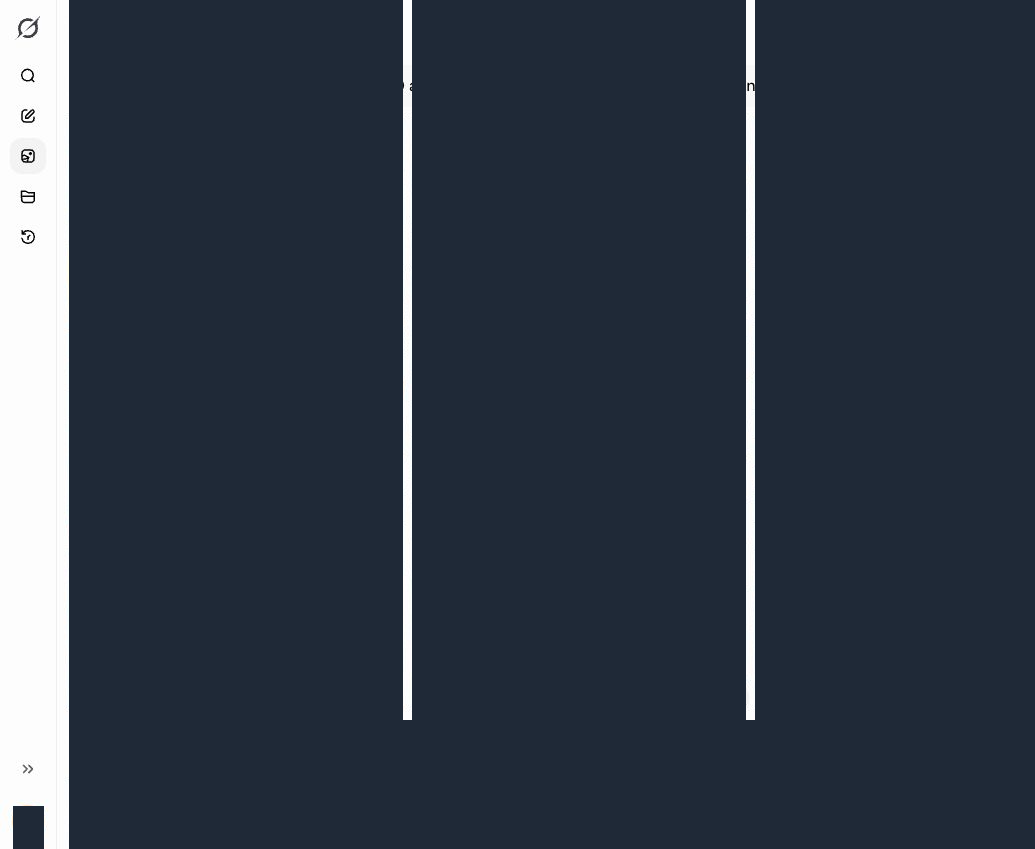
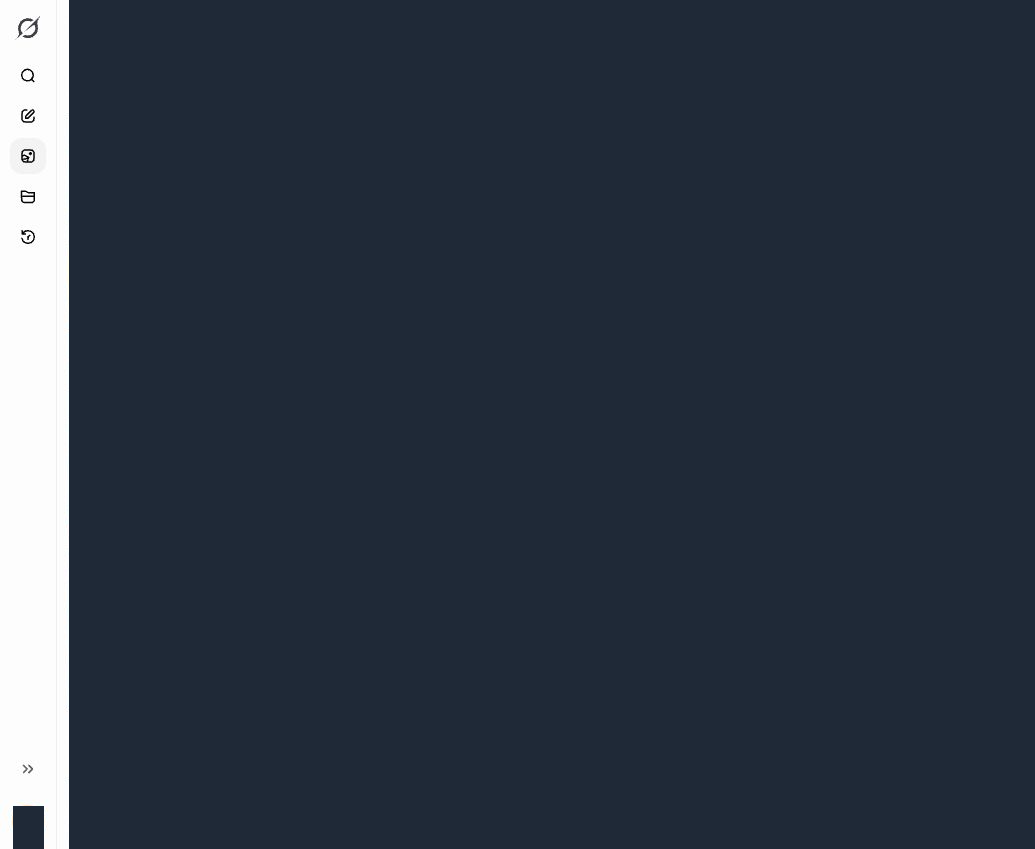
docs: record R2 access evidence

Changed region(s): [[0.7111, 0.0, 0.742, 0.8575], [0.371, 0.0, 0.4019, 0.8575]]

diff --git a/docs/audits/2026-05-20-grok-powertools-full-system-audit/implementation-notes.html b/docs/audits/2026-05-20-grok-powertools-full-system-audit/implementation-notes.html
@@ -46,6 +46,8 @@
         <li><strong>Prompt JSON scope:</strong> Task 4's prompt-root JSON inventory excludes files inside <code>node_modules</code> so dependency metadata does not drown out user/export prompt evidence. This matches the approved Task 4 script and is recorded in <code>inventory/prompt-json-summary.json</code>.</li>
         <li><strong>Privacy-safe Grok evidence:</strong> Task 5 treats Grok page titles, prompts, tab titles, media thumbnails, and generated content as sensitive. The saved-start screenshot is redacted before being saved, and the log records selector/status facts instead of prompt text.</li>
         <li><strong>Popup source preview:</strong> Because live <code>chrome-extension://</code> popup navigation is blocked by Chrome automation policy, Task 5 uses a static <code>popup.html</code> screenshot only to document the Cloud Backup UI shape. It is not interpreted as live storage/config evidence.</li>
+        <li><strong>R2 log sanitization:</strong> Task 6 preserves Cloudflare account IDs and exact Wrangler error codes, but redacts local email and account display-name text because those details are not needed to diagnose the R2 blocker.</li>
+        <li><strong>Credential metadata redaction:</strong> After evidence review, <code>inventory/prompt-json-summary.json</code> redacts credential-like filenames/paths and credential-key field names while preserving file counts, parseability, byte sizes, and non-sensitive inventory shape.</li>
       </ul>
     </section>
 
@@ -54,6 +56,7 @@
       <ul>
         <li><strong>Live extension popup not inspected:</strong> The original Task 5 plan called for live popup cloud settings. Browser automation blocked <code>chrome-extension://.../popup.html</code>, so the audit recorded the blocker and used source preview for UI shape only. This avoids reading Chrome profile internals or routing around the browser security policy.</li>
         <li><strong>Observed Grok URL differs from requested URL:</strong> The user requested the existing Chrome tab at <code>grok.com/imagine/saved</code>, but Chrome reported and loaded <code>https://grok.com/imagine</code>. The page still exposed Saved/discovery controls, so Task 5 records route drift instead of forcing navigation.</li>
+        <li><strong>Extension cloud test not run:</strong> Task 6 could not safely confirm Worker URL/API key presence because live popup access was already policy-blocked. The audit therefore records extension cloud testing as <code>not_run</code> instead of trying to bypass the browser policy.</li>
       </ul>
     </section>
 
@@ -66,6 +69,8 @@
         <li><strong>Worker health boundary:</strong> The local Worker <code>/health</code> endpoint passing is enough to continue browser and integration audit work, but it is not treated as proof that R2 backup objects exist or are complete.</li>
         <li><strong>Screenshot completeness versus privacy:</strong> Task 5 preserves UI structure while obscuring media/prompt content. This sacrifices visual proof of the exact generated items in exchange for keeping audit artifacts commit-safe.</li>
         <li><strong>Selector evidence over raw DOM dumps:</strong> The audit records boolean selector confidence instead of saving broad DOM text because the live Grok page includes prompt and generated-content text in titles, buttons, and accessible nodes.</li>
+        <li><strong>Blocker image versus live screenshot:</strong> Task 6 creates <code>screenshots/extension-cloud-test-result.png</code> as a clearly labeled blocker card, not as a live browser screenshot, so downstream audit readers do not mistake a missing cloud test for an omitted artifact.</li>
+        <li><strong>Visual evidence after redaction:</strong> The Grok starting screenshot now preserves only the left navigation/sidebar context. This is intentionally less visually complete than the first capture, but it removes edge-case prompt text fragments from the committed artifact.</li>
       </ul>
     </section>
 
@@ -76,6 +81,7 @@
         <li><strong>Evidence privacy:</strong> After the audit, confirm which screenshots/logs should be committed versus kept local only.</li>
         <li><strong>Cloud status access:</strong> Confirm whether a non-secret overlay status/export should be added so future audits can verify cloud mode, Worker host, queue count, and last test result without opening the extension popup.</li>
         <li><strong>Grok saved route:</strong> Confirm whether the product should target <code>/imagine</code> with observed Saved controls, <code>/imagine/saved</code>, or both as valid current Grok Saved entrypoints.</li>
+        <li><strong>Cloudflare account mapping:</strong> Confirm which Cloudflare account should own <code>grok-gallery-001</code> and whether the active Wrangler OAuth token should be refreshed or switched before object-level R2 verification.</li>
       </ul>
     </section>
   </body>

diff --git a/docs/audits/2026-05-20-grok-powertools-full-system-audit/report.md b/docs/audits/2026-05-20-grok-powertools-full-system-audit/report.md
@@ -6,11 +6,11 @@ Audit date: 2026-05-20
 
 | Subsystem | Status | Evidence |
 | --- | --- | --- |
-| Repo and local runtime | Working with findings | Git identity captured at `a4a50ccd300217d0c8409c8369b89fb842d7cdf8`, with detached HEAD and pre-existing untracked `.superpowers/` in `docs/audits/2026-05-20-grok-powertools-full-system-audit/logs/baseline-git.txt`. Runtime versions are Node `v20.18.1`, npm `10.8.2`, and Wrangler `4.67.0` in `docs/audits/2026-05-20-grok-powertools-full-system-audit/logs/baseline-node.txt`. Unit tests, Worker typecheck, and web build pass; root lint, root E2E, and web lint currently fail as recorded below. |
+| Repo and local runtime | Working with findings | Baseline health was captured at `a4a50ccd300217d0c8409c8369b89fb842d7cdf8`, before later audit artifact commits. Task 6 evidence was generated after the Task 5 checkpoint `0f7321d1b8d3900afe179e56ef3f4d5627bbe7aa`. Baseline git state, including detached HEAD and pre-existing untracked `.superpowers/`, is in `docs/audits/2026-05-20-grok-powertools-full-system-audit/logs/baseline-git.txt`. Runtime versions are Node `v20.18.1`, npm `10.8.2`, and Wrangler `4.67.0` in `docs/audits/2026-05-20-grok-powertools-full-system-audit/logs/baseline-node.txt`. Unit tests, Worker typecheck, and web build pass; root lint, root E2E, and web lint currently fail as recorded below. |
 | Chrome extension | Overlay visible; live popup storage blocked by automation policy | The content-script overlay is present on Grok Imagine and main controls are visible in `docs/audits/2026-05-20-grok-powertools-full-system-audit/screenshots/extension-overlay-start.png`. Live extension popup storage could not be opened because `chrome-extension://.../popup.html` is blocked by Chrome automation URL policy; the cloud settings screenshot is a static source preview only. |
 | Live Grok Imagine integration | Imagine/Saved-like surface loaded; auth not independently verified | Existing user-profile Chrome tab loaded `https://grok.com/imagine` with no login prompt and with Saved/discovery controls, Save/Unsave actions, Make video actions, and Generate More controls. Evidence is sanitized in `docs/audits/2026-05-20-grok-powertools-full-system-audit/logs/chrome-grok-starting-state.md` and `docs/audits/2026-05-20-grok-powertools-full-system-audit/screenshots/chrome-grok-saved-start.png`. |
 | Local Vault | Inventoried | Local inventory completed against `/Users/philipbankier/Content/Grok IMagine/greymaker/GrokVault`: 1,853 files and 1,767,268,127 bytes in `docs/audits/2026-05-20-grok-powertools-full-system-audit/inventory/local-vault-summary.json`; file-level CSV and hashes are in `docs/audits/2026-05-20-grok-powertools-full-system-audit/inventory/local-vault-files.csv`. |
-| Worker/R2 backup | Local Worker running; R2 object verification pending | Existing listener on port 8787 responds to `curl -sS http://localhost:8787/health` with `{"ok":true,...}` in `docs/audits/2026-05-20-grok-powertools-full-system-audit/logs/local-services.txt`. This confirms local Worker health only, not R2 object completeness. |
+| Worker/R2 backup | Local Worker running; direct R2 blocked; extension cloud test not run | Existing listener on port 8787 responds to `curl -sS http://localhost:8787/health` with `{"ok":true,...}` in `docs/audits/2026-05-20-grok-powertools-full-system-audit/logs/local-services.txt`. Direct Wrangler R2 listing is blocked by current Cloudflare OAuth/account state, and the extension cloud test was not run because live popup config access was policy-blocked; evidence is in `docs/audits/2026-05-20-grok-powertools-full-system-audit/logs/r2-access.md` and `docs/audits/2026-05-20-grok-powertools-full-system-audit/inventory/r2-evidence.json`. |
 | Web app | Running; browser smoke pending; lint fails | Existing listener on port 3001 responds to `curl -sS -I http://localhost:3001` with `HTTP/1.1 200 OK` in `docs/audits/2026-05-20-grok-powertools-full-system-audit/logs/local-services.txt`. `cd web && npm run build` exits 0 in `docs/audits/2026-05-20-grok-powertools-full-system-audit/logs/web-build.txt`; `cd web && npm run lint` exits 1 with 9 errors and 24 warnings in `docs/audits/2026-05-20-grok-powertools-full-system-audit/logs/web-lint.txt`. |
 
 ## Confirmed Working Flows
@@ -20,6 +20,7 @@ Audit date: 2026-05-20
 - Web production build passes: `cd web && npm run build` exits 0 and compiles successfully, with the expected multiple-lockfile workspace-root warning, in `docs/audits/2026-05-20-grok-powertools-full-system-audit/logs/web-build.txt`.
 - Local web server responds: port 3001 was already listening, and `curl -sS -I http://localhost:3001` returned `HTTP/1.1 200 OK` in `docs/audits/2026-05-20-grok-powertools-full-system-audit/logs/local-services.txt`.
 - Local Worker health responds: port 8787 was already listening, and `curl -sS http://localhost:8787/health` returned `{"ok":true,"service":"grok-r2-backup",...}` in `docs/audits/2026-05-20-grok-powertools-full-system-audit/logs/local-services.txt`.
+- Worker source confirms `/health` is intentionally unauthenticated, while `/v1/presign` and `/v1/metadata/snapshot` require `x-gpt-api-key`; source: `cloud/src/index.ts`.
 - Local Vault inventory script passes: `node docs/audits/2026-05-20-grok-powertools-full-system-audit/scripts/inventory-vault.mjs` exits 0 and writes summary, CSV, duplicate, prompt JSON, and log artifacts under `docs/audits/2026-05-20-grok-powertools-full-system-audit/inventory/` and `docs/audits/2026-05-20-grok-powertools-full-system-audit/logs/local-vault-inventory.txt`.
 - Chrome/Grok starting-state inspection connected to the user-profile Chrome session. The Grok Imagine tab loaded with no login prompt, the Grok Power Tools overlay is injected, and main overlay controls are visible; evidence is in `docs/audits/2026-05-20-grok-powertools-full-system-audit/logs/chrome-grok-starting-state.md`.
 - Current Grok selector confidence: `button[aria-label="Make video"]`, `Generate More`, `img[src*="imagine-public.x.ai"]`, and `img[src*="assets.grok.com/users/"]` are present. `button[aria-label="Download"]`, `button[aria-label="Video"]`, and `video[src]` are absent in the observed state; source: `docs/audits/2026-05-20-grok-powertools-full-system-audit/logs/chrome-grok-starting-state.md`.
@@ -33,8 +34,10 @@ Audit date: 2026-05-20
 ## Blocked Or Unverified Flows
 
 - Root lint has an environment-sensitive failure mode because generated Wrangler temp files under `cloud/.wrangler/tmp` are included by the root ESLint command; evidence is in `docs/audits/2026-05-20-grok-powertools-full-system-audit/logs/root-lint.txt`.
-- R2 object-level backup verification remains pending. Local Worker `/health` confirms the runtime is reachable, but it does not prove Grok media objects exist in R2 or reconcile with the local Vault.
+- Direct R2 object-level backup verification is blocked in the current Cloudflare OAuth/account state. Wrangler R2 bucket listing returns authentication error code `10000` for account `ae55f67eccbee0bca65247faea6d5024`, R2 disabled code `10042` for account `e8d3925cac56cc5a4927c16024531994`, and authentication error code `10000` for the `cloud/wrangler.toml` R2 account `ba5339fd86e87c226bdc306347636042`; evidence is in `docs/audits/2026-05-20-grok-powertools-full-system-audit/logs/r2-access.md`.
+- R2 object-level backup verification remains unproven. Local Worker `/health` confirms the runtime is reachable, but it does not prove Grok media objects exist in R2 or reconcile with the local Vault.
 - Live extension popup storage/config inspection is blocked by Chrome automation URL policy for `chrome-extension://.../popup.html`. The screenshot at `docs/audits/2026-05-20-grok-powertools-full-system-audit/screenshots/extension-popup-cloud-settings.png` is a static source preview and must not be treated as proof of live Worker URL, API key, unsynced count, or last test status.
+- The extension cloud upload pipeline test was not run because Worker URL/API key presence could not be verified without bypassing the blocked live popup access. `docs/audits/2026-05-20-grok-powertools-full-system-audit/screenshots/extension-cloud-test-result.png` is a generated blocker card, not a live cloud test result screenshot.
 - The requested `/imagine/saved` URL was not the observed Chrome URL. The live tab stayed on `https://grok.com/imagine` while exposing Saved/discovery-style controls. The audit treats this as current Grok UI routing drift rather than an extension failure until later flows prove otherwise.
 
 ## Backup Completeness Findings
@@ -45,8 +48,9 @@ Audit date: 2026-05-20
 - Zero-byte findings: none. `zeroByteFiles` is an empty array in `docs/audits/2026-05-20-grok-powertools-full-system-audit/inventory/local-vault-summary.json`.
 - Duplicate findings: 1 duplicate filename group and 7 duplicate SHA-256 hash groups. The duplicate filename is `de7b50f1-69d5-4f99-a048-780b0be72a2f.png` across `2025-12-19_Auto` and `2025-12-20_Auto`; full duplicate path and hash evidence is in `docs/audits/2026-05-20-grok-powertools-full-system-audit/inventory/local-vault-duplicates.json`.
 - File-level backup evidence: `docs/audits/2026-05-20-grok-powertools-full-system-audit/inventory/local-vault-files.csv` has 1,854 lines: one header plus 1,853 hashed Vault file rows.
-- Prompt JSON export inventory: 36 JSON files were found under `/Users/philipbankier/Content/Grok IMagine/greymaker` excluding `node_modules`; 35 parse as JSON and 1 does not parse (`philip-bankier-site/tsconfig.node.json`, expected double-quoted property name at position 127). The summary is in `docs/audits/2026-05-20-grok-powertools-full-system-audit/inventory/prompt-json-summary.json`.
+- Prompt JSON export inventory: 36 JSON files were found under `/Users/philipbankier/Content/Grok IMagine/greymaker` excluding `node_modules`; 35 parse as JSON and 1 does not parse (`philip-bankier-site/tsconfig.node.json`, expected double-quoted property name at position 127). The summary is in `docs/audits/2026-05-20-grok-powertools-full-system-audit/inventory/prompt-json-summary.json`; credential-like filenames/paths and credential-key field names are redacted in that summary.
 - Grok Saved, extension storage, and R2 reconciliation remain pending; local Vault inventory alone does not prove every Grok Saved item is backed up locally or in R2.
+- R2 backup completeness is currently `blocked`, not `failed`: no object listing or successful extension pipeline test is available. `docs/audits/2026-05-20-grok-powertools-full-system-audit/inventory/r2-evidence.json` intentionally contains an empty `objectLevelEvidence` array.
 
 ## UI/UX Drift And Product Discovery
 
@@ -71,6 +75,7 @@ Audit date: 2026-05-20
 ### P0 Reliability
 
 - Fix the Playwright Chrome API shim so root E2E no longer fails on missing `chrome.runtime.getURL`; evidence: `docs/audits/2026-05-20-grok-powertools-full-system-audit/logs/root-test-e2e.txt`.
+- Restore an object-level R2 verification path. Current blockers are Cloudflare account/auth mismatch for direct Wrangler listing and policy-blocked live popup config access for extension pipeline testing; evidence: `docs/audits/2026-05-20-grok-powertools-full-system-audit/logs/r2-access.md`.
 
 ### P1 Functionality
 

diff --git a/docs/audits/2026-05-20-grok-powertools-full-system-audit/logs/r2-access.md b/docs/audits/2026-05-20-grok-powertools-full-system-audit/logs/r2-access.md
@@ -1,0 +1,173 @@
+# R2 Access
+
+## wrangler bucket list without explicit account
+
+ ⛅ wrangler 4.67.0 (update available 4.93.0)
+─────────────────────────────────────────────
+Listing buckets...
+
+✘ [ERROR] A request to the Cloudflare API (/accounts/ae55f67eccbee0bca65247faea6d5024/r2/buckets) failed.
+
+  Authentication error [code: 10000]
+
+
+Getting User settings...
+👋 You are logged in with an OAuth Token, associated with the email [redacted-email].
+┌───────────────────────────────┬──────────────────────────────────┐
+│ Account Name                  │ Account ID                       │
+├───────────────────────────────┼──────────────────────────────────┤
+│ [redacted-account-name] │ e8d3925cac56cc5a4927c16024531994 │
+└───────────────────────────────┴──────────────────────────────────┘
+🔓 Token Permissions:
+Scope (Access)
+- account (read)
+- user (read)
+- workers (write)
+- workers_kv (write)
+- workers_routes (write)
+- workers_scripts (write)
+- workers_tail (read)
+- d1 (write)
+- pages (write)
+- zone (read)
+- ssl_certs (write)
+- ai (write)
+- ai-search (write)
+- ai-search (run)
+- queues (write)
+- pipelines (write)
+- secrets_store (write)
+- artifacts (write)
+- flagship (write)
+- containers (write)
+- cloudchamber (write)
+- connectivity (admin)
+- email_routing (write)
+- email_sending (write)
+- browser (write)
+- offline_access 
+🪵  Logs were written to "/Users/philipbankier/.wrangler/logs/wrangler-2026-05-20_01-26-17_016.log"
+
+## wrangler bucket list account e8d3925cac56cc5a4927c16024531994
+
+ ⛅ wrangler 4.67.0 (update available 4.93.0)
+─────────────────────────────────────────────
+Listing buckets...
+
+✘ [ERROR] A request to the Cloudflare API (/accounts/e8d3925cac56cc5a4927c16024531994/r2/buckets) failed.
+
+  Please enable R2 through the Cloudflare Dashboard. [code: 10042]
+  
+  If you think this is a bug, please open an issue at: https://github.com/cloudflare/workers-sdk/issues/new/choose
+
+
+🪵  Logs were written to "/Users/philipbankier/.wrangler/logs/wrangler-2026-05-20_01-26-19_807.log"
+
+## wrangler bucket list account ae55f67eccbee0bca65247faea6d5024
+
+ ⛅ wrangler 4.67.0 (update available 4.93.0)
+─────────────────────────────────────────────
+Listing buckets...
+
+✘ [ERROR] A request to the Cloudflare API (/accounts/ae55f67eccbee0bca65247faea6d5024/r2/buckets) failed.
+
+  Authentication error [code: 10000]
+
+
+Getting User settings...
+👋 You are logged in with an OAuth Token, associated with the email [redacted-email].
+┌───────────────────────────────┬──────────────────────────────────┐
+│ Account Name                  │ Account ID                       │
+├───────────────────────────────┼──────────────────────────────────┤
+│ [redacted-account-name] │ e8d3925cac56cc5a4927c16024531994 │
+└───────────────────────────────┴──────────────────────────────────┘
+🔓 Token Permissions:
+Scope (Access)
+- account (read)
+- user (read)
+- workers (write)
+- workers_kv (write)
+- workers_routes (write)
+- workers_scripts (write)
+- workers_tail (read)
+- d1 (write)
+- pages (write)
+- zone (read)
+- ssl_certs (write)
+- ai (write)
+- ai-search (write)
+- ai-search (run)
+- queues (write)
+- pipelines (write)
+- secrets_store (write)
+- artifacts (write)
+- flagship (write)
+- containers (write)
+- cloudchamber (write)
+- connectivity (admin)
+- email_routing (write)
+- email_sending (write)
+- browser (write)
+- offline_access 
+🪵  Logs were written to "/Users/philipbankier/.wrangler/logs/wrangler-2026-05-20_01-26-21_015.log"
+
+## wrangler bucket list account ba5339fd86e87c226bdc306347636042 from cloud/wrangler.toml
+
+ ⛅ wrangler 4.67.0 (update available 4.93.0)
+─────────────────────────────────────────────
+Listing buckets...
+
+✘ [ERROR] A request to the Cloudflare API (/accounts/ba5339fd86e87c226bdc306347636042/r2/buckets) failed.
+
+  Authentication error [code: 10000]
+
+
+Getting User settings...
+👋 You are logged in with an OAuth Token, associated with the email [redacted-email].
+┌───────────────────────────────┬──────────────────────────────────┐
+│ Account Name                  │ Account ID                       │
+├───────────────────────────────┼──────────────────────────────────┤
+│ [redacted-account-name] │ e8d3925cac56cc5a4927c16024531994 │
+└───────────────────────────────┴──────────────────────────────────┘
+🔓 Token Permissions:
+Scope (Access)
+- account (read)
+- user (read)
+- workers (write)
+- workers_kv (write)
+- workers_routes (write)
+- workers_scripts (write)
+- workers_tail (read)
+- d1 (write)
+- pages (write)
+- zone (read)
+- ssl_certs (write)
+- ai (write)
+- ai-search (write)
+- ai-search (run)
+- queues (write)
+- pipelines (write)
+- secrets_store (write)
+- artifacts (write)
+- flagship (write)
+- containers (write)
+- cloudchamber (write)
+- connectivity (admin)
+- email_routing (write)
+- email_sending (write)
+- browser (write)
+- offline_access 
+🪵  Logs were written to "/Users/philipbankier/.wrangler/logs/wrangler-2026-05-20_01-26-23_957.log"
+
+## Extension Cloud Test
+
+- Ran test: no
+- Result text: not run
+- Last error: live extension popup storage/config was not accessible through Chrome automation because `chrome-extension://.../popup.html` navigation was blocked by browser policy during Task 5.
+- Evidence screenshot: `screenshots/extension-cloud-test-result.png`
+- Notes: no Worker URL, API key, or live extension storage values were read. The Cloud Backup popup screenshot from Task 5 is a static source preview, not live configuration evidence.
+
+## Sanitization
+
+- Wrangler output was sanitized before committing: local Cloudflare email and account display name were replaced with `[redacted-email]` and `[redacted-account-name]`.
+- ANSI color sequences were removed from this log for readability.

diff --git a/docs/audits/2026-05-20-grok-powertools-full-system-audit/logs/chrome-grok-starting-state.md b/docs/audits/2026-05-20-grok-powertools-full-system-audit/logs/chrome-grok-starting-state.md
@@ -49,6 +49,6 @@
 
 ## Screenshot Privacy Review
 
-- `screenshots/chrome-grok-saved-start.png`: media and prompt regions redacted with opaque blocks before saving.
+- `screenshots/chrome-grok-saved-start.png`: Grok content area redacted with an opaque block before saving; only left navigation/sidebar context remains visible.
 - `screenshots/extension-overlay-start.png`: cropped to the overlay panel only.
 - `screenshots/extension-popup-cloud-settings.png`: generated from local source preview, so it does not contain live secrets.
